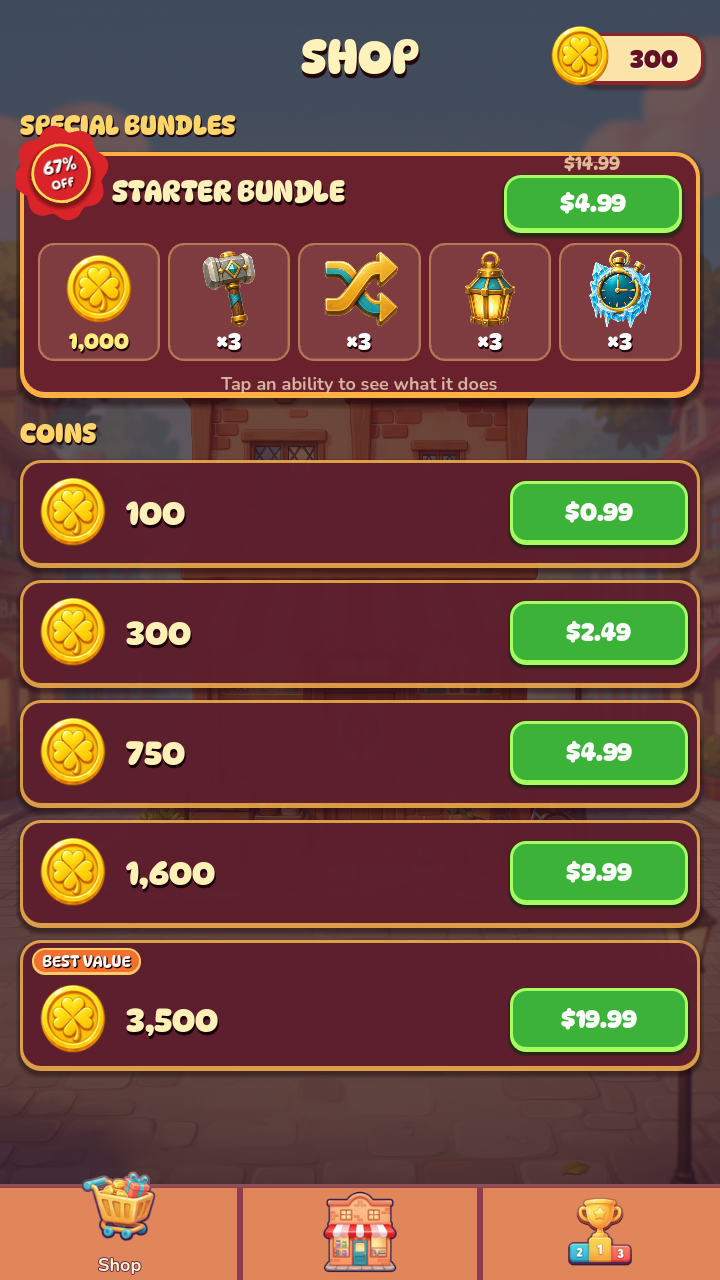
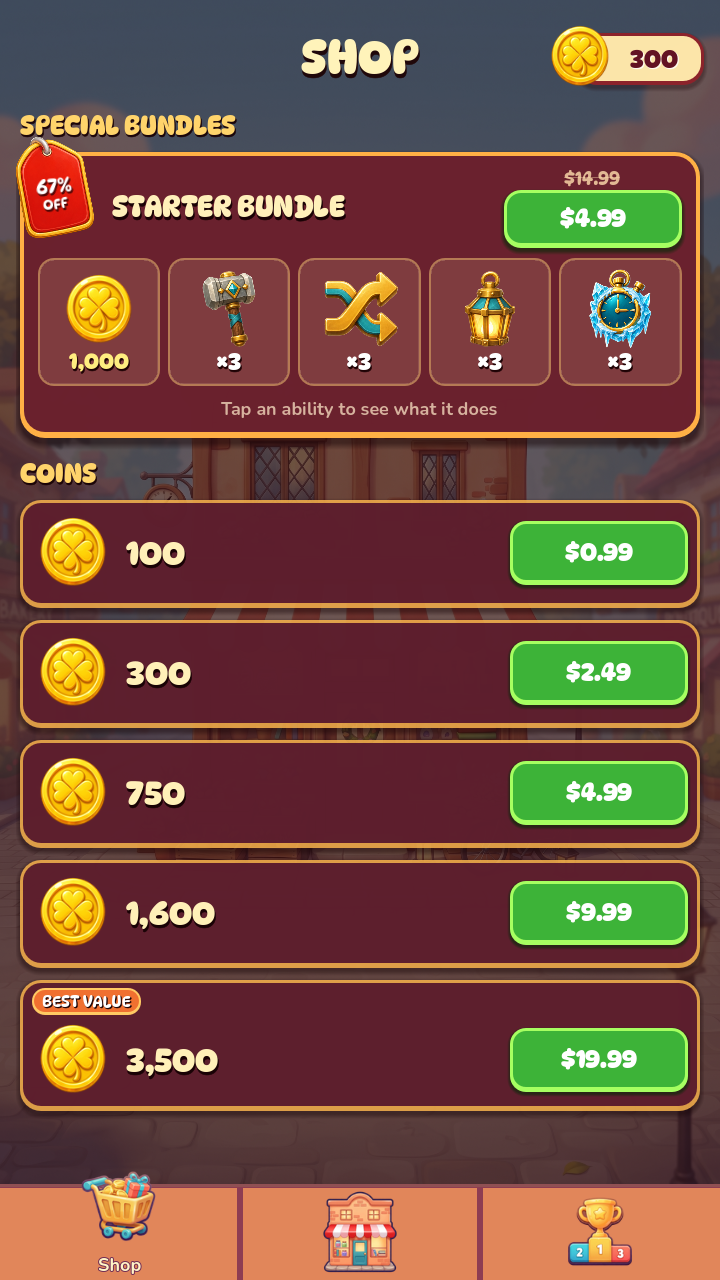
Improve shop bundle discount badge

diff --git a/docs/SCENES.md b/docs/SCENES.md
@@ -134,9 +134,10 @@ Runtime children:
 - The root is `ShopBundleCard(PanelContainer) > CardBody(Control) > [CardStack, DiscountBadge]` so
   `DiscountBadge` can overlap the card's top-left corner instead of being confined to `CardStack`'s
   normal vertical flow.
-- `DiscountBadge` is a rotated starburst sticker (two overlapping rounded squares behind a
-  gold-bordered circle) showing "X% / OFF"; a struck-through `CompareAtPriceLabel` above the
-  purchase button shows the "was" price. Both stay hidden when the bound offer has no
+- `DiscountBadge` is a slightly rotated, pinned red-and-gold tag using
+  `assets/ui/discount_badge_pinned.png`, with live Godot labels showing "X% / OFF" so catalog
+  discounts remain dynamic; a struck-through `CompareAtPriceLabel` above the purchase button
+  shows the "was" price. Both stay hidden when the bound offer has no
   `discount_percent`/`compare_at_formatted_price`. A `TitleSpacer` before the title label is widened
   by `scripts/shop_bundle_card.gd` whenever the badge is showing, so the badge never overlaps the
   bundle title text.

diff --git a/docs/SCRIPTS.md b/docs/SCRIPTS.md
@@ -166,10 +166,11 @@ Depends on:
 
 - Runs through `scenes/shop_verification.tscn` with an isolated test user-data directory.
 - Verifies US, Ukrainian, German, and Japanese mock price strings; five representative portrait
-  viewports; the five-reward starter layout (coins first) and its discount badge/compare-at price;
-  offer population; the `coins_3500` best-value tag (and that untagged offers stay untagged); the
-  ability info dialog opening with the right title when a reward icon is tapped; coin and bundle
-  purchases including three Freezers; and duplicate transaction protection.
+  viewports; the five-reward starter layout (coins first), its loaded discount badge texture, and
+  compare-at price; offer population; the `coins_3500` best-value tag (and that untagged offers
+  stay untagged); the ability info dialog opening with the right title when a reward icon is
+  tapped; coin and bundle purchases including three Freezers; and duplicate transaction
+  protection.
 
 Run:
 
